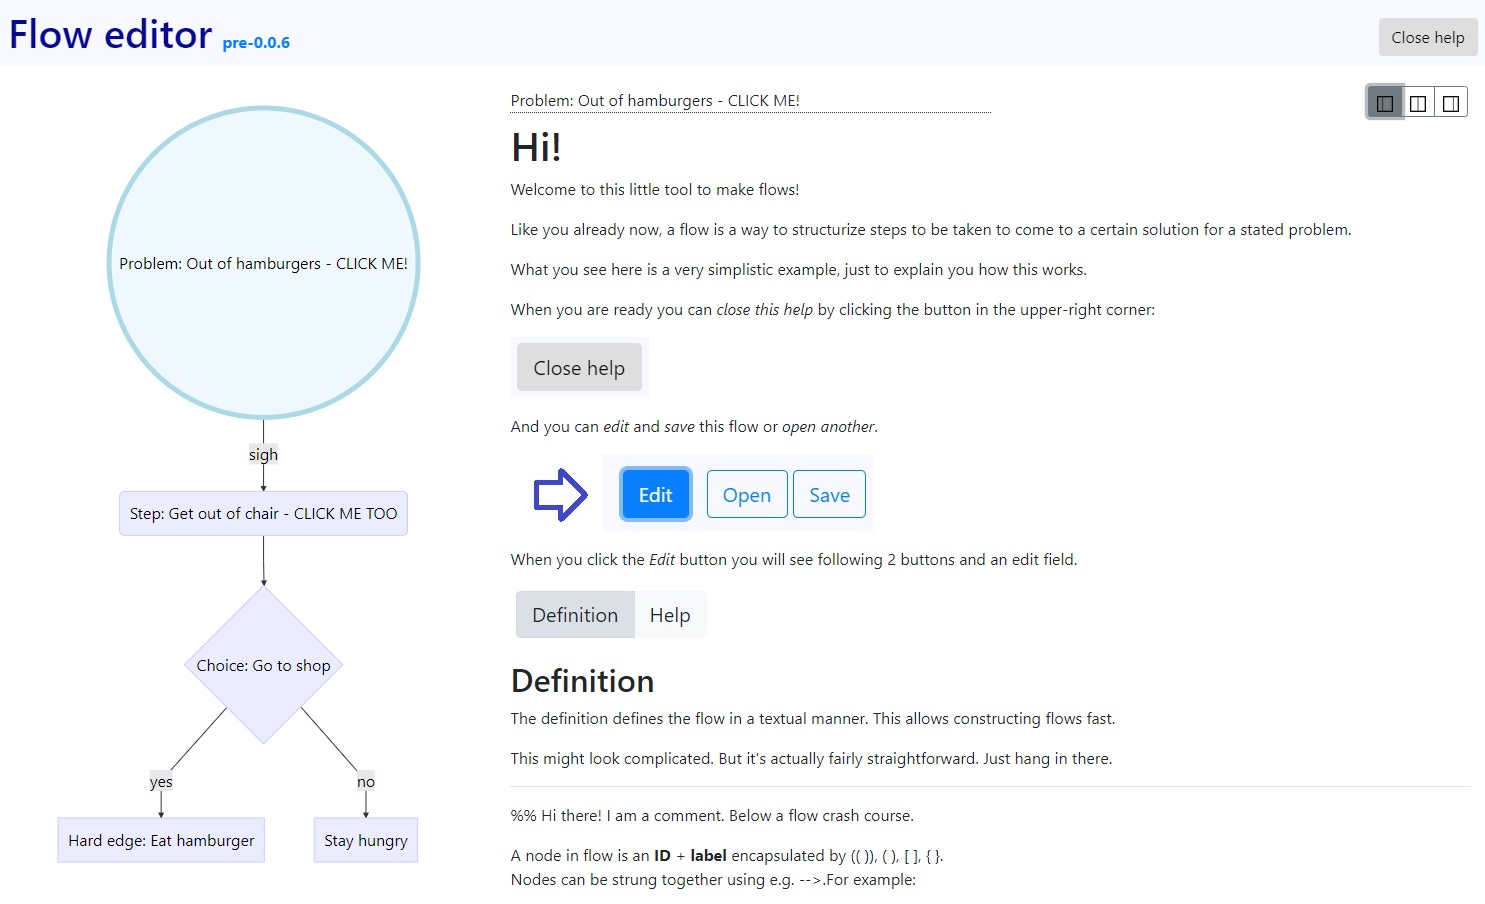
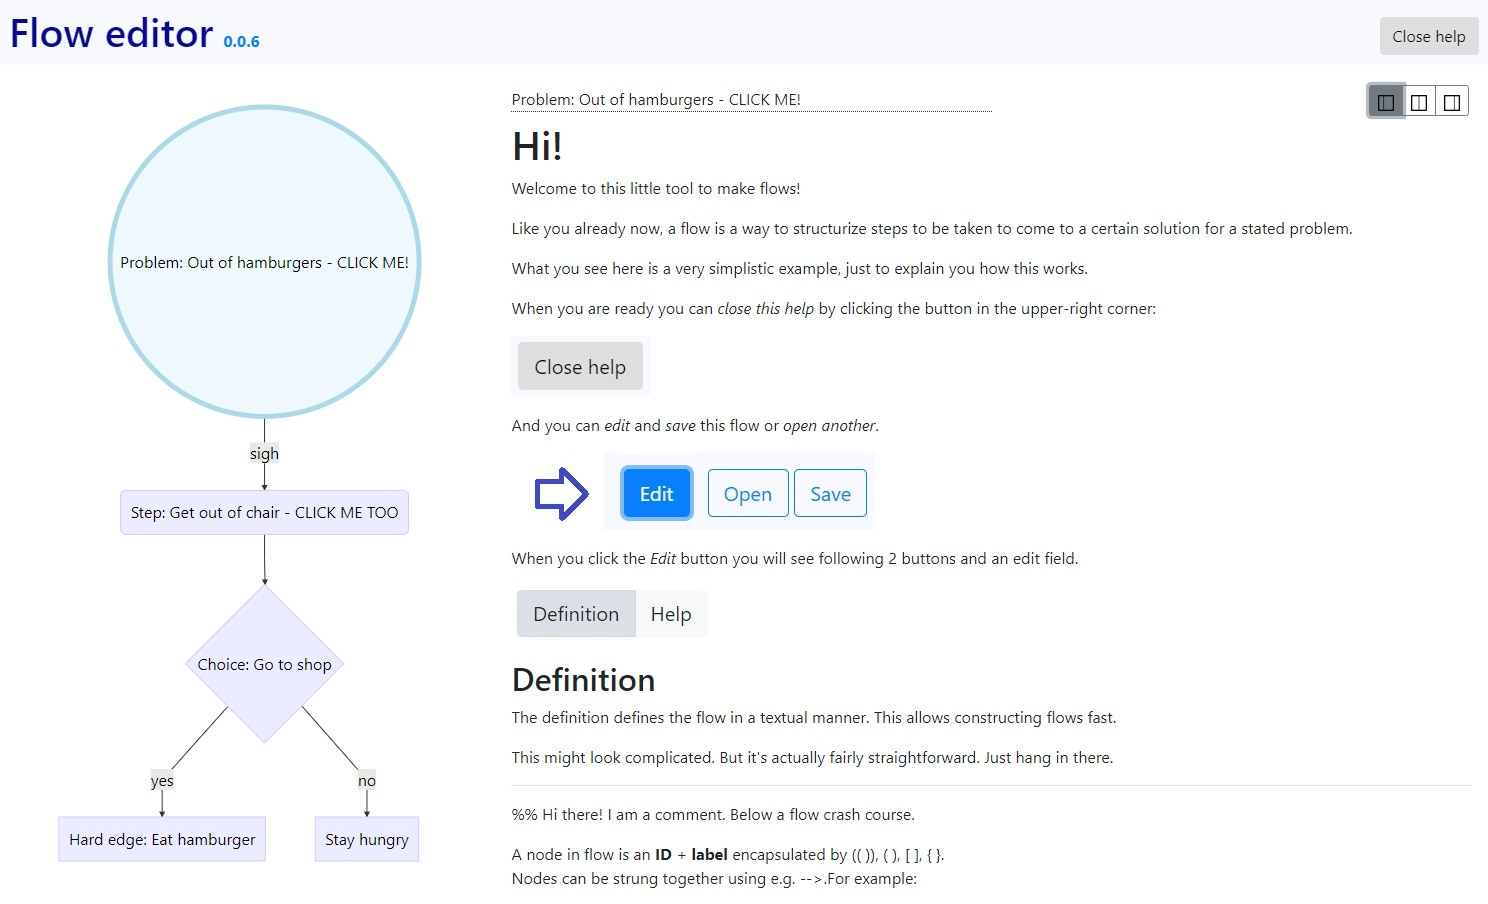
#7

diff --git a/js/main.js b/js/main.js
@@ -50,7 +50,7 @@ c -- no --> d2[ Stay hungry ]
 
 %% Notice that the node naming follows a certain pattern. Click one of the last 3 nodes in this example for a visual explanation.
 %% If there are small inconsistencies in your flow, you can fix these by clicking 'fix node ids' right above this text editor. (e.g.  a --> e becomes a --> b)
-%% Please note that this is an EXPERIMENTAL feature. Only the 'Definition' can be fixed ATM, not the 'Help'.`;
+%% Please note that this is an EXPERIMENTAL feature. Ranges and lists in help cannot be 'fixed'.`;
 let help = `a:
 # Hi!
 
@@ -156,6 +156,7 @@ let htmlHelp = {};
 
 const fixNodeIds = () => {
     let newDefinition = '';
+    let newHelp = '';
     let oldToNewNodeIdMap = getOldToNewNodeIdMap();
     let sortedMapKeys = Object.keys(oldToNewNodeIdMap).sort((a, b) => b.length - a.length); //Sort longes to shortest.
     if (sortedMapKeys.length === 0) {
@@ -178,10 +179,26 @@ const fixNodeIds = () => {
         }
         definition = newDefinition.trim();
 
-        if (editState === editStates.graph) {
-            simplemde.value(definition);
-            simplemde.codemirror.refresh(); // Force refresh.
+        split = help.split(/[\n\r]/g);
+        for (let i = 0; i != split.length; i++) {
+            let trimmedLine = split[i].trim();
+            for (let j = 0; j != sortedMapKeys.length; j++) {
+                let oldNodeId = sortedMapKeys[j];
+                if (trimmedLine.startsWith(oldNodeId + ':')) {
+                    trimmedLine = oldToNewNodeIdMap[oldNodeId] + ': ' + trimmedLine.substring(oldNodeId.length + 1);
+
+                    if(trimmedLine.length === (oldToNewNodeIdMap[oldNodeId] + ': ').length) {
+                        trimmedLine = trimmedLine.trim();
+                    }
+                }
+            }
+            newHelp += trimmedLine + '\n';
         }
+        help = newHelp.trim();
+
+        simplemde.value(editState === editStates.graph ? definition : help);
+        simplemde.codemirror.refresh(); // Force refresh.
+
         simplemde.codemirror.on("changes", delayRenderGraph);
 
         renderGraph();

diff --git a/index.html b/index.html
@@ -2,7 +2,7 @@
 <html>
 
 <head>
-    <title>Flow editor pre-0.0.6</title>
+    <title>Flow editor 0.0.6</title>
     <meta charset="utf-8">
     <meta name="viewport" content="width=device-width, initial-scale=1.0">
     <link rel="apple-touch-icon" sizes="180x180" href="apple-touch-icon.png?v=gAdOdr5nJd">
@@ -22,7 +22,7 @@
 <body>
     <div id="menu">
         <span id="title">
-            <h1>Flow editor</h1><strong><a href="https://github.com/Didjeeh/floweditor" target="_blank">pre-0.0.6</a></strong>
+            <h1>Flow editor</h1><strong><a href="https://github.com/Didjeeh/floweditor" target="_blank">0.0.6</a></strong>
         </span>
         <span id="controls">
             <button class="btn btn-primary other-controls" id="edit-btn" type="button" data-toggle="button"

diff --git a/README.md b/README.md
@@ -3,6 +3,7 @@
 **Live demo [HERE](https://didjeeh.github.io/floweditor)**
 
 # Versions
+*   2019-01-07: 0.0.6     - Possible to fix node naming inconsistencies
 *   2019-01-07: pre-0.0.6 - Possible to fix node naming inconsistencies (only in 'Definition' ATM)
 *   2019-01-03: 0.0.5     - Added column layouting option
 *   2018-12-21: 0.0.4     - More performant help and debugged help selectors
